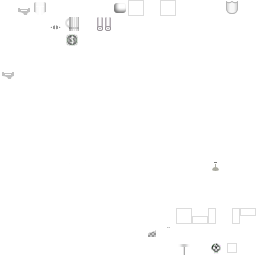
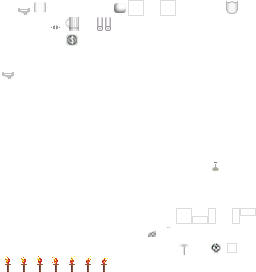
vf

diff --git a/gui.cpp b/gui.cpp
@@ -828,28 +828,55 @@ void wrapTextWithinBounds(TCODConsole* con, std::string s, int x_1, int y_1, int
 	} while (ss);
 }
 
-void animateCellOnTimer(int xPos, int yPos, Map* map, Player* player, std::vector<Entity*> entities)
+void animateCellOnTimer(int xPos, int yPos, Map* map, Player* player, std::vector<Entity*> entities, float scale)
 {
-	std::time_t result = std::time(nullptr);
-	std::localtime(&result);
-	if (result >= engine->getTime() + 1 && player->getSpriteBackground() == TCODColor::black)
+	auto t1 = engine->getTime();
+	auto t2 = engine->Clock.now();
+
+	auto dT = std::chrono::duration_cast<std::chrono::milliseconds>(t2 - t1).count();
+	std::cout << "Time passed: " << dT << std::endl;
+
+	Tile** world = engine->getMap()->getWorld();
+	if (dT >= scale * 10)
 	{
-		player->setSpriteBackground(TCODColor::brass);
-		engine->setTime(result);
-	}
-	else if (result >= engine->getTime() + 1 && player->getSpriteBackground() == TCODColor::brass)
-	{
-		player->setSpriteBackground(TCODColor::black);
-		engine->setTime(result);
+		int currentSprite = player->getSprite();
+		engine->setTime(t2);
+		if (player->getAnimateForward())
+		{
+			switch (currentSprite)
+			{
+			case TORCH1: player->setSprite(TORCH2); break;
+			case TORCH2: player->setSprite(TORCH3); break;
+			case TORCH3: player->setSprite(TORCH4); break;
+			case TORCH4: player->setSprite(TORCH5); break;
+			case TORCH5: player->setSprite(TORCH6); break;
+			case TORCH6: player->setSprite(TORCH7); player->setAnimateForward(false); break;
+			}
+		}
+		else
+		{
+			switch (currentSprite)
+			{
+			case TORCH7: player->setSprite(TORCH6); break;
+			case TORCH6: player->setSprite(TORCH5); break;
+			case TORCH5: player->setSprite(TORCH4); break;
+			case TORCH4: player->setSprite(TORCH3); break;
+			case TORCH3: player->setSprite(TORCH2); break;
+			case TORCH2: player->setSprite(TORCH1); player->setAnimateForward(true); break;
+			}
+		}
 	}
 }
 
 void animateAuraAroundCell(int xPos, int yPos)
 {
-	std::time_t result = std::time(nullptr);
-	std::localtime(&result);
+	auto t1 = engine->getTime();
+	auto t2 = engine->Clock.now();
+
+	auto dT = std::chrono::duration_cast<std::chrono::seconds>(t2 - t1).count();
+
 	Tile** world = engine->getMap()->getWorld();
-	if (result >= engine->getTime() + 1)
+	if (dT >= 1)
 	{
 		//if ()
 		for (int i = -1; i <= 1; i++)

diff --git a/Engine.cpp b/Engine.cpp
@@ -4,7 +4,7 @@
 
 Engine::Engine(int _screen_width, int _screen_height, int _world_width, int _world_height)
 {
-	time = std::time(nullptr);
+	time = Clock.now();
 	screen_width = _screen_width;
 	screen_height = _screen_height;
 	world_width = _world_width;
@@ -42,7 +42,8 @@ Engine::Engine(int _screen_width, int _screen_height, int _world_width, int _wor
 	int effectValue = 5;
 	Entity* potion = itemGenerators::generateHealingItem(xPos, yPos, sprite, color, name, description, type, effectValue);
 	inventoryComponent->addToStorage(potion);
-	player = new Player(0, 0, 2, "Player", playerAI, attackComponent, destroyComponent, inventoryComponent, equipmentComponent);
+	player = new Player(0, 0, TORCH1, "Player", playerAI, attackComponent, destroyComponent, inventoryComponent, equipmentComponent);
+	//player = new Player(0, 0, 2, "Player", playerAI, attackComponent, destroyComponent, inventoryComponent, equipmentComponent);
 	map = new Map(screen_width, screen_height);
 	fovRadius = 10;
 	refresh = false;
@@ -100,7 +101,7 @@ void Engine::loadMapFile(std::string fileName)
 				{
 					player->setXPos(i);
 					player->setYPos(j);
-					player->setSprite(entityTile.character);
+					player->setSprite(TORCH1);
 					player->setSpriteForeground(cF);
 					player->setSpriteBackground(cB);
 				}
@@ -248,5 +249,5 @@ void Engine::decrementLogPointer()
 
 int Engine::getLogPointer() { return logPointer; }
 
-std::time_t Engine::getTime() { return time; }
-void Engine::setTime(std::time_t _time) { time = _time; }
+std::chrono::steady_clock::time_point Engine::getTime() { return time; }
+void Engine::setTime(std::chrono::steady_clock::time_point _time) { time = _time; }

diff --git a/main.cpp b/main.cpp
@@ -6,8 +6,9 @@ int main()
 {
 	srand((unsigned int)time(NULL));
 	TCODSystem::forceFullscreenResolution(SCREEN_WIDTH, SCREEN_HEIGHT);
-	TCODConsole::setCustomFont("Bisasam_16x16.png", TCOD_FONT_LAYOUT_ASCII_INROW);
-	TCODConsole::initRoot(CELL_COLUMNS, CELL_ROWS, "Hermes", false, TCOD_RENDERER_SDL2);
+	TCODConsole::setCustomFont("Bisasam_16x16.png", TCOD_FONT_LAYOUT_ASCII_INROW, 16, 17);
+	TCODConsole::initRoot(CELL_COLUMNS, CELL_ROWS, "Hermes", true, TCOD_RENDERER_SDL2);
+	TCODSystem::setFps(60);
 
 	engine = new Engine(CELL_COLUMNS, CELL_ROWS, MAIN_WINDOW_WIDTH, MAIN_WINDOW_HEIGHT);
 
@@ -20,7 +21,7 @@ int main()
 	while (!TCODConsole::isWindowClosed())
 	{
 		engine->setRefresh(false);
-		animateCellOnTimer(engine->getPlayer()->getXPos(), engine->getPlayer()->getYPos(), engine->getMap(), engine->getPlayer(), engine->getEntities());
+		animateCellOnTimer(engine->getPlayer()->getXPos(), engine->getPlayer()->getYPos(), engine->getMap(), engine->getPlayer(), engine->getEntities(), 5);
 		engine->setRefresh(true);
 		drawUI();
 		Engine::STATE currentGameState = engine->getState();

diff --git a/Player.h b/Player.h
@@ -20,12 +20,16 @@ public:
 
 	int getSprite();
 
+
 	TCODColor getSpriteForeground();
 	TCODColor getSpriteBackground();
 
 	void setSprite(int s);
 	void setSpriteForeground(TCODColor c);
 	void setSpriteBackground(TCODColor c);
+
+	bool getAnimateForward();
+	void setAnimateForward(bool _animateForward);
 
 	std::string getName();
 	void setName(std::string n);
@@ -49,6 +53,7 @@ private:
 
 	int xPos;
 	int yPos;
+	bool animateForward = true;
 
 	int sprite;
 	TCODColor spriteForeground;

diff --git a/Player.cpp b/Player.cpp
@@ -50,6 +50,9 @@ void Player::setSprite(int s) { sprite = s; }
 void Player::setSpriteForeground(TCODColor c) { spriteForeground = c; }
 void Player::setSpriteBackground(TCODColor c) { spriteBackground = c; }
 
+bool Player::getAnimateForward() { return animateForward; }
+void Player::setAnimateForward(bool _animateForward) { animateForward = _animateForward; }
+
 std::string Player::getName() { return name; }
 void Player::setName(std::string n) { name = n; }
 

diff --git a/Engine.h b/Engine.h
@@ -55,8 +55,10 @@ public:
 
 	int getLogPointer();
 
-	std::time_t getTime();
-	void setTime(std::time_t time);
+	std::chrono::steady_clock::time_point getTime();
+	void setTime(std::chrono::steady_clock::time_point _time);
+
+	std::chrono::high_resolution_clock Clock;
 
 
 private:
@@ -86,7 +88,7 @@ private:
 
 	TCOD_key_t lastKey;
 
-	std::time_t time;
+	std::chrono::steady_clock::time_point time;
 };
 
 extern Engine* engine;

diff --git a/gui.h b/gui.h
@@ -26,7 +26,7 @@ void resetLineHighlight(int cardinalDirection, int range,
 
 void wrapTextWithinBounds(TCODConsole* con, std::string s, int x_1, int y_1, int x_2, int y_2);
 
-void animateCellOnTimer(int xPos, int yPos, Map* map, Player* player, std::vector<Entity*> entities);
+void animateCellOnTimer(int xPos, int yPos, Map* map, Player* player, std::vector<Entity*> entities, float scale);
 
 void drawUI();
 

diff --git a/constants.h b/constants.h
@@ -39,4 +39,13 @@ const int NORTHWEST = 7;
 
 const int WATER = '~';
 
+
+const int TORCH1 = 256;
+const int TORCH2 = 257;
+const int TORCH3 = 258;
+const int TORCH4 = 259;
+const int TORCH5 = 260;
+const int TORCH6 = 261;
+const int TORCH7 = 262;
+
 #endif

diff --git a/main.h b/main.h
@@ -9,6 +9,7 @@
 #include <stdlib.h>
 #include <time.h>
 #include <ctime>
+#include <chrono>
 
 
 #include <libtcod.hpp>
